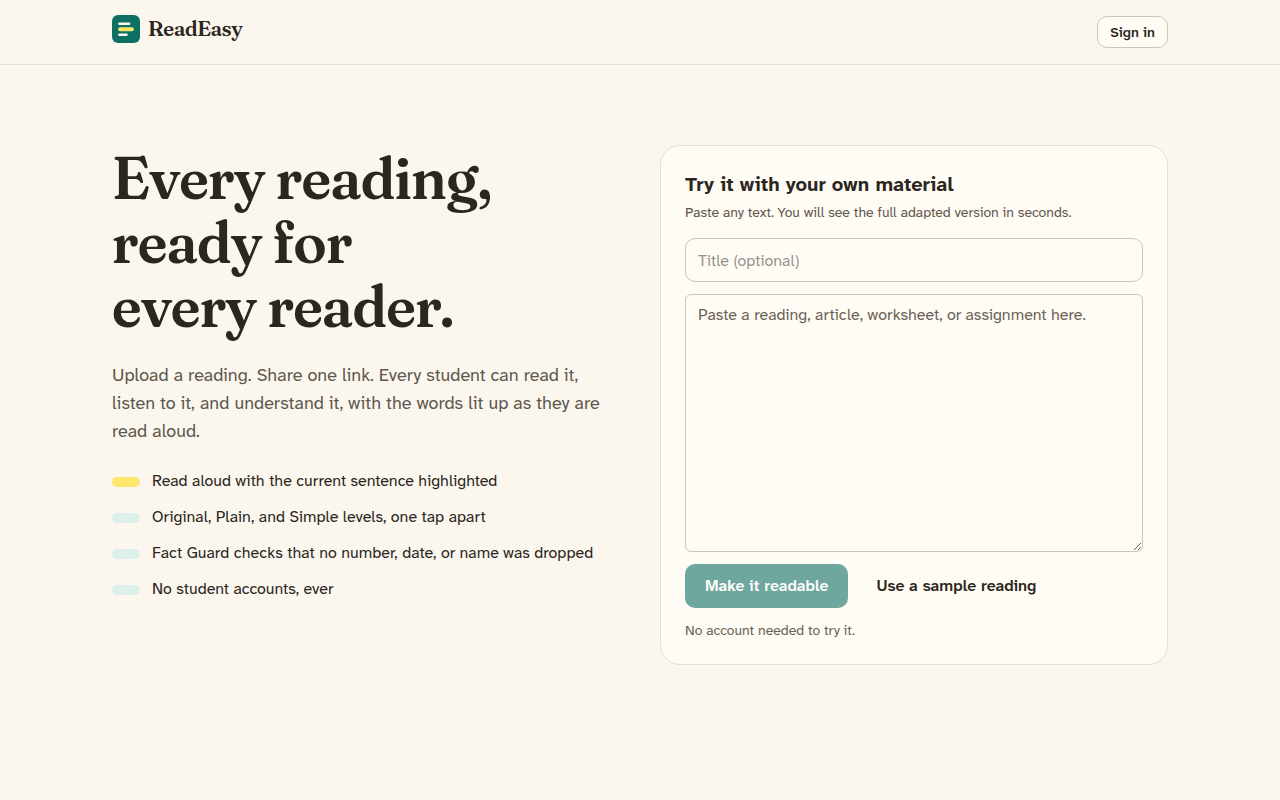
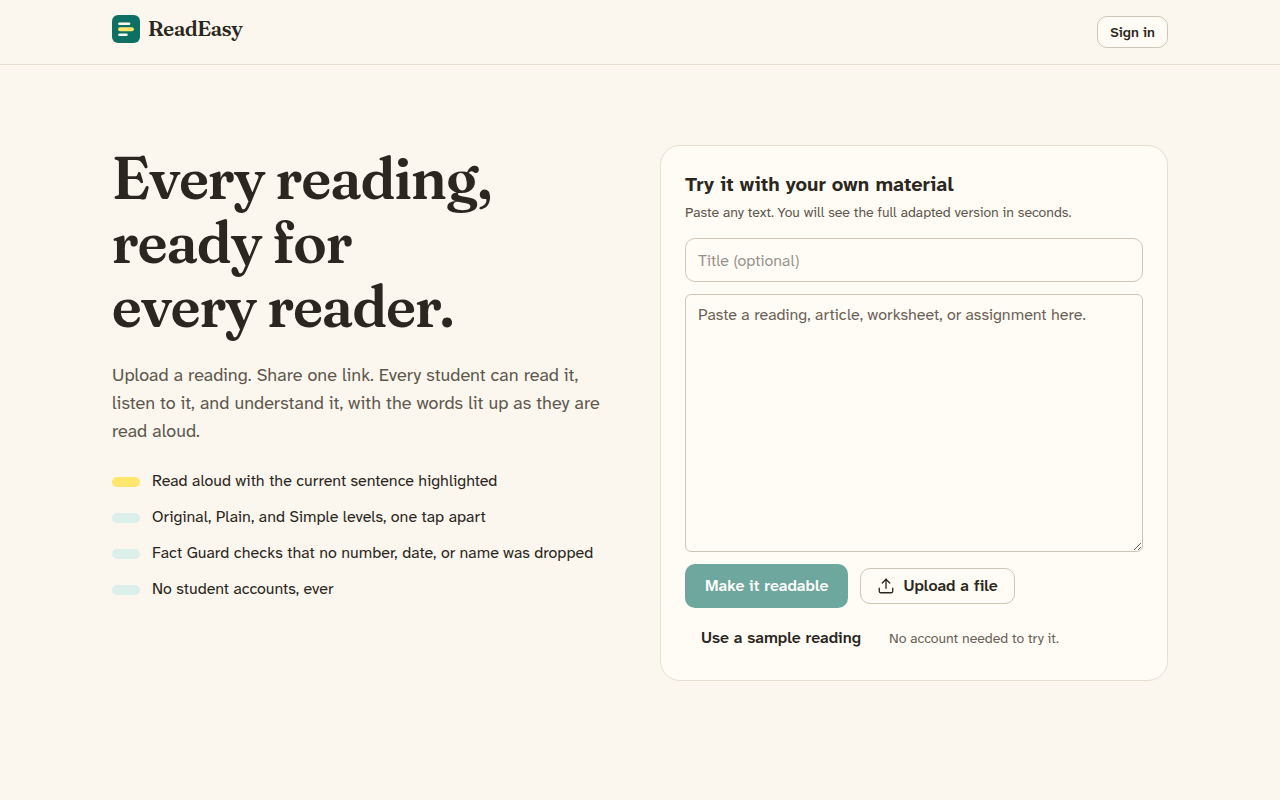
feat: file upload, health check, production hardening, and full docs
Wires the upload button (PDF, Word, image, text) into the landing form
through the signed-URL or direct upload path and the ingest route, adds
/api/health for deploy checks and an in-app /privacy page, refuses to run
in production without DRAFT_COOKIE_SECRET, and makes CI build the app and
run the browser smoke test. The smoke test now uploads a generated PDF and
asserts the extracted text. README covers local run, deploy to Vercel +
Supabase + Anthropic, checks, and architecture; DEMO.md has the 2-minute
script and judge Q&A; PRIVACY.md documents the student-privacy design.

Claude-Session: https://claude.ai/code/session_01D6wbTmJEeRBNkAtFhpGSF5

Changed region(s): [[0.5312, 0.7812, 0.8125, 0.8125], [0.6875, 0.7188, 0.8125, 0.75]]

diff --git a/src/components/teacher/upload-button.tsx b/src/components/teacher/upload-button.tsx
@@ -1,0 +1,49 @@
+"use client";
+
+import { useRef, useState } from "react";
+import { Upload } from "lucide-react";
+import { Button } from "@/components/ui/button";
+
+type Extracted = { text: string; title: string | null; warnings: string[]; pii: { findings: unknown[]; summary: string } };
+
+// Uploads a file (PDF, Word, image, text), extracts its text on the server,
+// and hands it back to the paste box so the teacher can see and edit it first.
+export function UploadButton({ onExtracted, onError }: { onExtracted: (e: Extracted) => void; onError: (m: string | null) => void }) {
+  const input = useRef<HTMLInputElement>(null);
+  const [busy, setBusy] = useState(false);
+
+  async function handle(file: File) {
+    setBusy(true);
+    onError(null);
+    try {
+      const prep = await fetch("/api/uploads/prepare", { method: "POST", headers: { "content-type": "application/json" }, body: JSON.stringify({ name: file.name, mime: file.type, size: file.size }) });
+      const p = (await prep.json()) as { uploadId?: string; mode?: "signed" | "direct"; url?: string; signedUrl?: string; token?: string; path?: string; error?: { message: string } };
+      if (!prep.ok || !p.uploadId) throw new Error(p.error?.message ?? "We couldn't start the upload. Try again.");
+      if (p.mode === "direct" && p.url) {
+        const put = await fetch(p.url, { method: "PUT", body: file });
+        if (!put.ok) throw new Error("The upload didn't finish. Try again.");
+      } else if (p.signedUrl) {
+        const put = await fetch(p.signedUrl, { method: "PUT", body: file, headers: { "content-type": file.type || "application/octet-stream", "x-upsert": "true" } });
+        if (!put.ok) throw new Error("The upload didn't finish. Try again.");
+      }
+      const res = await fetch("/api/ingest", { method: "POST", headers: { "content-type": "application/json" }, body: JSON.stringify({ kind: "upload", uploadId: p.uploadId, name: file.name, mime: file.type }) });
+      const data = (await res.json()) as Extracted & { error?: { message: string } };
+      if (!res.ok) throw new Error(data.error?.message ?? "We couldn't read that file. Try a clearer copy, or paste the text.");
+      onExtracted(data);
+    } catch (e) {
+      onError(e instanceof Error ? e.message : "Something went wrong. Try again.");
+    } finally {
+      setBusy(false);
+      if (input.current) input.current.value = "";
+    }
+  }
+
+  return (
+    <>
+      <input ref={input} type="file" accept=".pdf,.docx,.txt,.md,image/*" className="sr-only" aria-label="Choose a file" onChange={(e) => { const f = e.target.files?.[0]; if (f) void handle(f); }} />
+      <Button type="button" variant="secondary" loading={busy} icon={<Upload size={18} strokeWidth={1.75} />} onClick={() => input.current?.click()}>
+        Upload a file
+      </Button>
+    </>
+  );
+}

diff --git a/src/app/privacy/page.tsx b/src/app/privacy/page.tsx
@@ -1,0 +1,32 @@
+import { SiteHeader } from "@/components/site-header";
+
+export const metadata = { title: "Privacy" };
+
+export default function PrivacyPage() {
+  return (
+    <>
+      <SiteHeader />
+      <main className="mx-auto max-w-prose px-4 py-12 text-lg">
+        <h1 className="font-display text-4xl">Privacy</h1>
+        <p className="mt-4 text-ink-muted">ReadEasy is built so that students never have to give it anything.</p>
+        <h2 className="mt-8 text-2xl font-bold">Students</h2>
+        <ul className="mt-2 list-disc space-y-2 pl-6">
+          <li>No accounts, names, emails, or passwords. A student opens a link or types a class code.</li>
+          <li>No analytics or tracking on student pages. Reading settings stay in the browser on that device and are never sent anywhere.</li>
+          <li>Links use unguessable tokens, are hidden from search engines, and can be rotated by the teacher at any time.</li>
+          <li>Nothing a student does is reported back to the teacher.</li>
+        </ul>
+        <h2 className="mt-8 text-2xl font-bold">Teachers</h2>
+        <ul className="mt-2 list-disc space-y-2 pl-6">
+          <li>We store your email, your classes, the materials you upload, and the adapted versions.</li>
+          <li>Sign-in is a one-time email link. There is no password.</li>
+          <li>Uploaded content goes to the AI provider only to produce the adapted version and is never written to logs.</li>
+          <li>Before processing, uploads are scanned for likely student personal information so you can remove it first.</li>
+          <li>You can delete a material or a class at any time.</li>
+        </ul>
+        <h2 className="mt-8 text-2xl font-bold">Built with COPPA and FERPA in mind</h2>
+        <p className="mt-2">Collecting nothing from students means there is no student record to protect. Teacher data is isolated by database row-level security, and anonymous visitors can read only published content through a specific link.</p>
+      </main>
+    </>
+  );
+}

diff --git a/src/components/teacher/try-it-form.tsx b/src/components/teacher/try-it-form.tsx
@@ -4,6 +4,7 @@ import { useState } from "react";
 import { useRouter } from "next/navigation";
 import { Button } from "@/components/ui/button";
 import { Textarea } from "@/components/ui/input";
+import { UploadButton } from "./upload-button";
 
 const SAMPLE = `Photosynthesis: how plants make food
 
@@ -27,6 +28,7 @@ export function TryItForm({ compact = false }: { compact?: boolean }) {
   const [title, setTitle] = useState("");
   const [busy, setBusy] = useState(false);
   const [error, setError] = useState<string | null>(null);
+  const [notes, setNotes] = useState<string[]>([]);
 
   async function submit() {
     setBusy(true);
@@ -73,10 +75,23 @@ export function TryItForm({ compact = false }: { compact?: boolean }) {
         minLength={40}
       />
       {error && <p className="text-sm text-danger" role="alert">{error}</p>}
+      {notes.length > 0 && (
+        <ul className="rounded-md bg-warning-soft px-3 py-2 text-sm text-warning" role="status">{notes.map((n, i) => <li key={i}>{n}</li>)}</ul>
+      )}
       <div className="flex flex-wrap items-center gap-3">
         <Button type="submit" size="lg" loading={busy} disabled={text.trim().length < 40}>
           Make it readable
         </Button>
+        <UploadButton
+          onError={setError}
+          onExtracted={(e) => {
+            setText(e.text);
+            if (e.title && !title) setTitle(e.title);
+            const n = [...e.warnings];
+            if (e.pii.findings.length) n.push(`${e.pii.summary} Check the text before you continue; names and contact details were kept so you can remove them.`);
+            setNotes(n);
+          }}
+        />
         <Button type="button" variant="ghost" onClick={() => setText(SAMPLE)}>
           Use a sample reading
         </Button>

diff --git a/src/lib/auth/session.ts b/src/lib/auth/session.ts
@@ -8,7 +8,12 @@ export type Session = { sub: string; email: string };
 export const MOCK_SESSION_COOKIE = "readeasy_mock_session";
 
 function secret(): string {
-  return serverEnv().DRAFT_COOKIE_SECRET ?? "dev-only-secret-change-me";
+  const s = serverEnv().DRAFT_COOKIE_SECRET;
+  if (s && s.length >= 16) return s;
+  if (process.env.NODE_ENV === "production" && !publicEnv.NEXT_PUBLIC_DEV_TOOLS) {
+    throw new Error("DRAFT_COOKIE_SECRET must be set (32+ random characters) in production.");
+  }
+  return "dev-only-secret-change-me";
 }
 
 export function sign(value: string): string {

diff --git a/src/app/api/health/route.ts b/src/app/api/health/route.ts
@@ -1,0 +1,12 @@
+import { NextResponse } from "next/server";
+import { withDb } from "@/lib/db";
+import { isMockDb, isMockLlm } from "@/lib/env";
+
+export async function GET() {
+  try {
+    await withDb({ role: "service" }, (q) => q("select 1"));
+    return NextResponse.json({ ok: true, db: isMockDb() ? "in-process" : "postgres", llm: isMockLlm() ? "mock" : "anthropic" });
+  } catch {
+    return NextResponse.json({ ok: false }, { status: 503 });
+  }
+}

diff --git a/README.md b/README.md
@@ -1,45 +1,106 @@
 # ReadEasy
 
-Every reading, ready for every reader.
+**Every reading, ready for every reader.**
 
-A teacher uploads class material (a reading, article, worksheet, or assignment). ReadEasy turns it into a dyslexia-friendly version students can read, listen to, and understand, with the teacher reviewing before anything is published. The class gets one link. Students never log in.
+A teacher uploads class material (a reading, article, worksheet, or assignment). ReadEasy turns it into a version students with dyslexia can read, listen to, and understand. The teacher reviews it, publishes it, and shares one class link. Students never log in.
 
-Status: in active development. See `PLAN.md` for the current state, `BRAND.md` for the design system, `RESEARCH.md` and `DECISIONS.md` for why things are the way they are.
+Think of it as Beacons for teachers: one beautiful class link where every material is already accessible.
 
-## Run it locally (no accounts or keys needed)
+## What it does
+
+**Teacher**
+- Paste text or upload a PDF, Word file, photo, or text file. Try it before signing in.
+- Each section is rewritten at two extra levels, **Plain** (about grade 7) and **Simple** (about grade 4). The **Original** is always one tap away.
+- **Fact Guard** checks that every number, date, percentage, name, and technical term in the source still appears in each rewrite. If something is dropped, the rewrite is retried once; if it still fails, the original wording is kept for that level and the section is flagged for the teacher, naming exactly what was dropped. Flags must be acknowledged before publishing.
+- TL;DR bullets, "Words to know" (with syllables, and definitions only when the text itself defines the word), and assignment steps.
+- Sign in with an email link, create a class link (`/c/ms-rivera`), publish, share the link, a projector QR page, or a 6-character class code.
+
+**Student** (no account, works on Chromebooks, iPads, and phones)
+- Class page lists every published material with listen time.
+- Reader: big play button, the **current sentence is highlighted** as it is read aloud, tap any sentence to start there, speed control, pause and resume.
+- Tap any word to hear it, see its syllables, and a plain definition when the text gave one.
+- Reading settings: font (Atkinson Hyperlegible, Lexend, OpenDyslexic), text size, letter spacing, word spacing, line spacing, line width, background (cream, pale blue, soft green, dark, high contrast), and a reading ruler. Saved on the device only.
+- Level switch between Original, Plain, and Simple.
+
+## Run it locally (no keys needed)
 
 ```bash
 pnpm install
-cp .env.example .env.local        # defaults: MOCK_DB=1, MOCK_LLM=1
-NEXT_PUBLIC_DEV_TOOLS=1 pnpm dev   # http://localhost:3000
+cp .env.example .env.local            # defaults to MOCK_DB=1 and MOCK_LLM=1
+NEXT_PUBLIC_DEV_TOOLS=1 pnpm dev      # http://localhost:3000
 ```
 
-Paste a reading on the landing page, review the adapted version, sign in with any email (dev sign-in), create your class link, publish, and open the student link. `/styleguide` shows every component.
+Mock mode runs a real Postgres in-process (PGlite) with the same migrations and row-level security as production, and a deterministic stand-in for the AI that imitates one real failure (it drops a date in the Simple level) so you can see Fact Guard work. Sign in with any email through the dev sign-in. `/styleguide` shows every component.
 
-## Real mode
+## Deploy (Vercel + Supabase + Anthropic)
 
-Set in `.env.local` (or Vercel env): `ANTHROPIC_API_KEY`, `DATABASE_URL` (Supabase pooler, transaction mode), `NEXT_PUBLIC_SUPABASE_URL`, `NEXT_PUBLIC_SUPABASE_ANON_KEY`, `SUPABASE_SERVICE_ROLE_KEY`, `DRAFT_COOKIE_SECRET`, `NEXT_PUBLIC_APP_URL`. Apply `supabase/migrations/0001_init.sql` to the project (`supabase db push`), set the magic-link email template from `supabase/templates/magic-link.html`, and configure custom SMTP (the built-in SMTP allows ~2 emails/hour).
+1. **Supabase**: create a project. In the SQL editor run `supabase/migrations/0001_init.sql` (or `supabase link` then `supabase db push`). Create a Storage bucket named `uploads` (private). In Authentication → Email Templates, set the Magic Link template to `supabase/templates/magic-link.html`. In Authentication → URL Configuration, set the site URL to your domain and add `https://<your-domain>/auth/confirm` to the redirect list. **Configure custom SMTP** (Resend, Postmark, etc.): the built-in sender allows about 2 emails per hour.
+2. **Vercel**: import the GitHub repo. Framework: Next.js. Set these environment variables:
+
+| Variable | Where to get it |
+|---|---|
+| `ANTHROPIC_API_KEY` | console.anthropic.com |
+| `LLM_MODEL` | optional, default `claude-sonnet-5-5` |
+| `DATABASE_URL` | Supabase → Project settings → Database → Connection pooling, **transaction** mode (port 6543) |
+| `NEXT_PUBLIC_SUPABASE_URL` | Supabase → Project settings → API |
+| `NEXT_PUBLIC_SUPABASE_ANON_KEY` | same page |
+| `SUPABASE_SERVICE_ROLE_KEY` | same page (server only) |
+| `DRAFT_COOKIE_SECRET` | any 32+ random characters (`openssl rand -base64 32`) |
+| `NEXT_PUBLIC_APP_URL` | `https://<your-domain>` with no trailing slash |
+
+Leave `MOCK_DB` and `MOCK_LLM` unset in production. Do not set `NEXT_PUBLIC_DEV_TOOLS` in production.
+
+3. Deploy. Open `/api/health`: it should return `{"ok":true,"db":"postgres","llm":"anthropic"}`. Pushes to `main` redeploy automatically.
 
 ## Checks
 
 ```bash
-pnpm check                 # lint + typecheck + unit + RLS tests
-pnpm build && MOCK_DB=1 MOCK_LLM=1 NEXT_PUBLIC_DEV_TOOLS=1 NEXT_PUBLIC_APP_URL=http://localhost:3100 pnpm start -p 3100
-node scripts/smoke.mjs     # teacher + student flow in a real browser
+pnpm check        # lint, typecheck, unit tests, RLS policy tests (PGlite)
+pnpm build
+MOCK_DB=1 DRAFT_COOKIE_SECRET=local-secret-local-secret NEXT_PUBLIC_DEV_TOOLS=1 NEXT_PUBLIC_APP_URL=http://localhost:3100 pnpm start -p 3100
+node scripts/smoke.mjs   # full teacher + student flow in a real browser; screenshots in test-shots/
 ```
 
-## How it works
+GitHub Actions runs all of this on every push (`.github/workflows/ci.yml`).
+
+## Architecture
 
 ```mermaid
 flowchart LR
-  T[Teacher pastes or uploads] --> I[Ingest: sniff, parse, PII check]
-  I --> S[Chunk into sections]
-  S --> P[Per-section processing
-claims a lease, calls Claude, Fact Guard verifies]
-  P --> R[Review: original vs Plain vs Simple, flags]
-  R --> PUB[Publish to class link]
+  T[Teacher: paste or upload] --> I[Ingest\nsniff by magic bytes, parse PDF/DOCX/image/URL,\nSSRF guard, PII check]
+  I --> S[Chunk into 100-200 word sections]
+  S --> P[Process one section at a time\nlease in DB, Claude structured output,\nFact Guard verify, retry once, flag]
+  P --> R[Review: Original vs Plain vs Simple]
+  R --> PUB[Publish to class]
   PUB --> C[/c/handle class page/]
-  C --> RD[/r/token reader: read-aloud, settings, levels/]
+  C --> RD[/r/token reader\nread-aloud, settings, levels/]
 ```
 
-Data access is plain SQL through one interface with Postgres row-level security applied per request; PGlite runs the same migrations in tests and local dev, postgres.js talks to Supabase in production. Students never log in and never touch tables directly: public reads go through security-definer RPCs keyed by 128-bit share tokens.
+- **Next.js 16 App Router, TypeScript strict, Tailwind v4.** Every color, size, and spacing value lives in `src/styles/tokens.css`; a test fails the build on raw colors anywhere else, on deficit language in copy, and on any text token under 4.5:1 contrast.
+- **Data**: plain SQL through one interface (`src/lib/db`) that sets `request.jwt.claims` and `set local role` per request, so Postgres row-level security applies exactly as it would through Supabase's API. `postgres.js` talks to Supabase in production; PGlite runs the same migrations in tests and local dev. Students never read tables: public pages call `security definer` RPCs keyed by 128-bit share tokens, cached and invalidated on publish.
+- **Processing is resumable**: sections carry a status and a lease. The client calls `POST /api/materials/[id]/process` until done; closing the tab, refreshing, or a second tab just continues the same work. One failed section never fails the material.
+- **AI**: `@anthropic-ai/sdk` with structured outputs (zod schemas). Uploaded content is wrapped as data inside `<document>` tags and the prompt states it is never instructions. `MOCK_LLM=1` swaps in a deterministic provider.
+- **Read-aloud**: browser Web Speech API behind a small interface (`src/lib/tts`). One utterance per sentence, chained, which avoids Chrome's long-utterance cutoff and gives sentence highlighting on every platform; word underline uses boundary events where they exist and a timing estimate elsewhere. iOS needs the first play inside a tap, which the reader does.
+- **Security**: nonce-based CSP, HSTS, frame-ancestors none, no HTML ever stored or rendered from content, magic-link sign-in via `token_hash` (works across devices), rate limits and daily caps in Postgres, uploads go straight to Storage via signed URLs (never through a function), URL import blocks private networks.
+
+## Repository guide
+
+| File | What it is |
+|---|---|
+| `PLAN.md` | Current state and what was cut. Start here to continue the work. |
+| `BRAND.md` | The design system: mark, palette with contrast ratios, type, motion, voice. |
+| `RESEARCH.md` | Evidence behind the reading-support choices, competitor analysis, technical findings. |
+| `DECISIONS.md` | Every major decision, who made it, and why. |
+| `DEMO.md` | The 2-minute demo script and judge Q&A. |
+| `PRIVACY.md` | How student privacy is handled. |
+
+## Known limitations
+
+- Quick checks are generated and validated but not yet shown in the reader.
+- Cross-browser automated runs (WebKit, Firefox), load tests, and Lighthouse CI are not wired up; the smoke test runs on Chromium.
+- Materials created without an account live in a signed cookie for 7 days; sign in to keep them.
+- Fonts are offered as preferences. The evidence does not support any font as a treatment for dyslexia (see RESEARCH.md §1.5).
+
+## License
+
+MIT. OpenDyslexic is included under the SIL Open Font License (see `src/fonts/OpenDyslexic-OFL.txt`).

diff --git a/DEMO.md b/DEMO.md
@@ -1,0 +1,30 @@
+# Demo script (2 minutes)
+
+## Before you start
+
+- Open the deployed URL on a laptop and keep your phone unlocked with the camera ready.
+- Confirm `/api/health` returns `ok: true` with `db: postgres` and `llm: anthropic`.
+- Sign in once beforehand so the magic-link email isn't on the clock. Have a class created already ("Ms. Rivera's 7th grade science").
+- Have a messy handout ready: a phone photo of a worksheet or a PDF. Keep the sample reading as a fallback (the "Use a sample reading" button).
+- Turn the laptop volume up. Test one sentence of read-aloud in the browser you'll use.
+
+## Script
+
+1. **The problem (10 s).** "A third of a class can't get through a dense handout. The teacher has five minutes between periods."
+2. **Upload (20 s).** Landing page → Upload a file → the photo. The extracted text appears in the box. Click **Make it readable**.
+3. **Review (30 s).** Sections appear one by one. Point at the grade estimate per level. Find the **Fact Guard** flag: "1 fact was dropped: 1779." Say: "Every rewrite is checked against the original for every number, date, name, and term. If anything is missing we keep the original wording and tell the teacher exactly what was dropped. Nobody else does this on the teacher's own document." Click **Keep original here**.
+4. **Publish (10 s).** Click **Publish**. Click **QR for projector**.
+5. **Student (40 s).** Scan the QR with the phone. Class page → tap the material. "Words to know" with play buttons; tap one. Tap **Start reading**, then the big play button: the sentence lights up as it's read. Tap another sentence to jump. Tap a word: hear it, see syllables and the definition. Open **Reading settings**: switch to OpenDyslexic, widen the spacing, pick pale blue. Switch level to **Simple**, then back to **Original**.
+6. **Close (10 s).** "No student accounts, no tracking. One link per class. The original is always one tap away."
+
+## The five hardest questions
+
+**"Isn't this Diffit plus Immersive Reader?"** Those are two products with a copy-paste in between; Diffit's own support page says students shouldn't use it and points teachers to a separate TTS tool. ReadEasy owns the whole loop: upload → level → verify → publish → read with support, from one link.
+
+**"MagicSchool has student rooms with read-aloud."** Those rooms create student records (names) and sit in a category Common Sense Media rates "Moderate Risk". ReadEasy exposes no AI to students and keeps no student data at all. That's the procurement story.
+
+**"Immersive Reader is free in every Microsoft school."** It restyles text; it can't level it, check comprehension, or read a photographed worksheet (PDFs only get read-aloud). ReadEasy works alongside it: it makes the content IR has nothing to read.
+
+**"AI rewrites change meaning. How do you stop that?"** We agree it does: EdWeek reported six leveling tools, Diffit included, writing above the requested grade and drifting meaning. Our answer is structural: a mandatory review with the original side by side, Fact Guard verification of every rewrite against the source, flags that must be acknowledged, and the original always available to students.
+
+**"How is student privacy handled?"** No student accounts, names, or analytics. Preferences and progress stay in the device's local storage. Links are 128-bit unguessable tokens, marked noindex, rate-limited, and can be rotated. Uploaded content goes only to the AI call and is never logged. The teacher side stores only the email, classes, materials, and generated content. See PRIVACY.md.

diff --git a/PLAN.md b/PLAN.md
@@ -7,10 +7,10 @@ If you are a new session told "Continue from PLAN.md": read this file top to bot
 - **Mode: hackathon MVP** (owner's call, 2026-10-03). The demo path is built and smoke-tested end to end in a real browser: paste text → sections adapted (mock or Claude) → review with Fact Guard flags → sign in → create class link → publish → class page → reader with read-aloud highlighting, word popover, settings sheet, level switch → QR page. `node scripts/smoke.mjs` runs it against `pnpm start`.
 - Branch: work on `claude/awesome-pascal-c1hgr5`; every commit is pushed to BOTH `main` and that branch. Commits authored as `Bhanu Sadhu <bhnsadhu@gmail.com>` with the Claude co-author trailer.
 - Runs with zero services: `MOCK_DB=1` (in-process Postgres via PGlite, same migrations and RLS) and `MOCK_LLM=1`. Real mode needs `DATABASE_URL`, Supabase Auth keys, and `ANTHROPIC_API_KEY` (see `.env.example`).
-- Built but not wired into the UI yet: file upload (`/api/uploads/*` + `/api/ingest` handle PDF/DOCX/image/URL with PII and SSRF guards), quick checks (generated and validated, not shown to students), image descriptions, reading ruler keyboard control, PWA service worker, per-section inline editing UI (server action exists), reorder/duplicate/rotate (server actions exist).
+- Built but not wired into the UI yet: URL import (`/api/ingest` supports it; no field on the landing page), quick checks (generated and validated, not shown to students), image descriptions, reading ruler keyboard control, PWA service worker, per-section inline editing UI (server action exists), reorder/duplicate/rotate (server actions exist).
 - Not done (cut for the MVP, see Known limitations): Playwright e2e suite beyond the smoke script, cross-browser runs, load test, Lighthouse CI, break-it rounds, DEMO.md/PRIVACY.md/BUGS.md, seed script, deploy.
 - Environment limits: no Docker; this sandbox cannot download Playwright's WebKit/Firefox, so local runs use the preinstalled Chromium via `executablePath`.
-- Last completed item: MVP pages + browser smoke test passing.
+- Last completed item: production-readiness pass (upload button, /api/health, production secret check, CI runs the smoke test, README/DEMO/PRIVACY written). Smoke test: 18/18 steps.
 
 ## Architecture (decided; see DECISIONS.md and RESEARCH.md §4)
 
@@ -153,7 +153,7 @@ Students: link after unpublish/rotation · teacher edits after students started 
 
 ## Known limitations (v1, with reasons)
 
-- File/photo/URL import has API routes and parsers but no upload UI yet: the MVP landing accepts pasted text only (time).
+- URL import has an API route and SSRF guard but no field in the UI yet (time). File upload (PDF, Word, image, text) is wired and smoke-tested.
 - Quick checks are generated and validated but not shown in the reader (time; the data is in `sections.quick_checks`).
 - Cross-browser e2e, load test, Lighthouse, and break-it rounds were not run (time). The smoke script covers the demo path on Chromium.
 - Email sign-in requires a Supabase project with custom SMTP; without Supabase the app uses the dev sign-in (`NEXT_PUBLIC_DEV_TOOLS=1` only).

diff --git a/PRIVACY.md b/PRIVACY.md
@@ -1,0 +1,26 @@
+# Privacy
+
+ReadEasy is built so that students never have to give it anything.
+
+## Students
+
+- No accounts, names, emails, or passwords. A student opens a link or types a class code.
+- No analytics, cookies, or tracking on student pages. Reading settings and progress are saved in the browser's local storage on that device only, and never sent anywhere.
+- Class and material links use unguessable 128-bit tokens, are marked "noindex" for search engines, and are rate-limited. A teacher can rotate a link at any time, which disables the old one immediately.
+- Nothing a student does is reported back to the teacher.
+
+## Teachers
+
+- We store the teacher's email address, their classes, the materials they upload, and the adapted versions.
+- Sign-in uses a one-time email link. There is no password to leak.
+- Uploaded content is sent to the AI provider (Anthropic) only to produce the adapted version, and is never written to logs.
+- Before processing, ReadEasy scans uploads for likely student personal information (names next to grades, emails, phone numbers, IEP or 504 references) and warns the teacher so it can be removed first.
+- Teachers can delete a material or a class at any time; deletion removes the content and its adapted versions.
+
+## Design choices with COPPA and FERPA in mind
+
+- Collecting nothing from students means there is no student record to protect, share, or request.
+- Teacher-owned data is isolated by database row-level security: one teacher can never read or change another's data, and anonymous visitors can read only published content through a specific link.
+- Student pages are served with a strict content security policy and no third-party scripts.
+
+Questions: open an issue in the repository.
